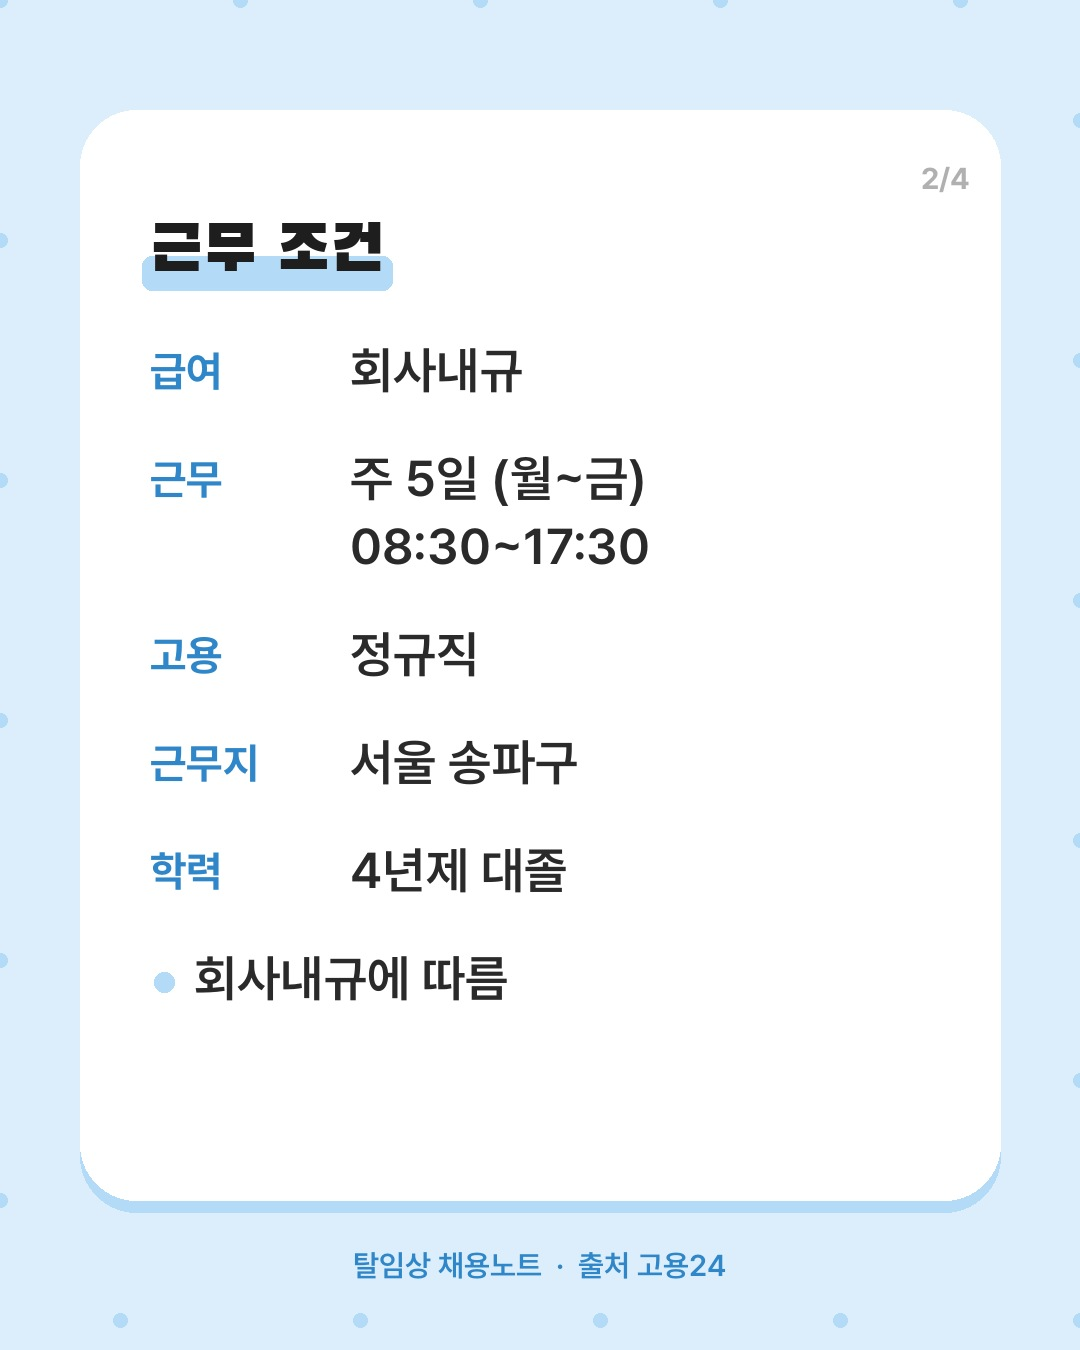
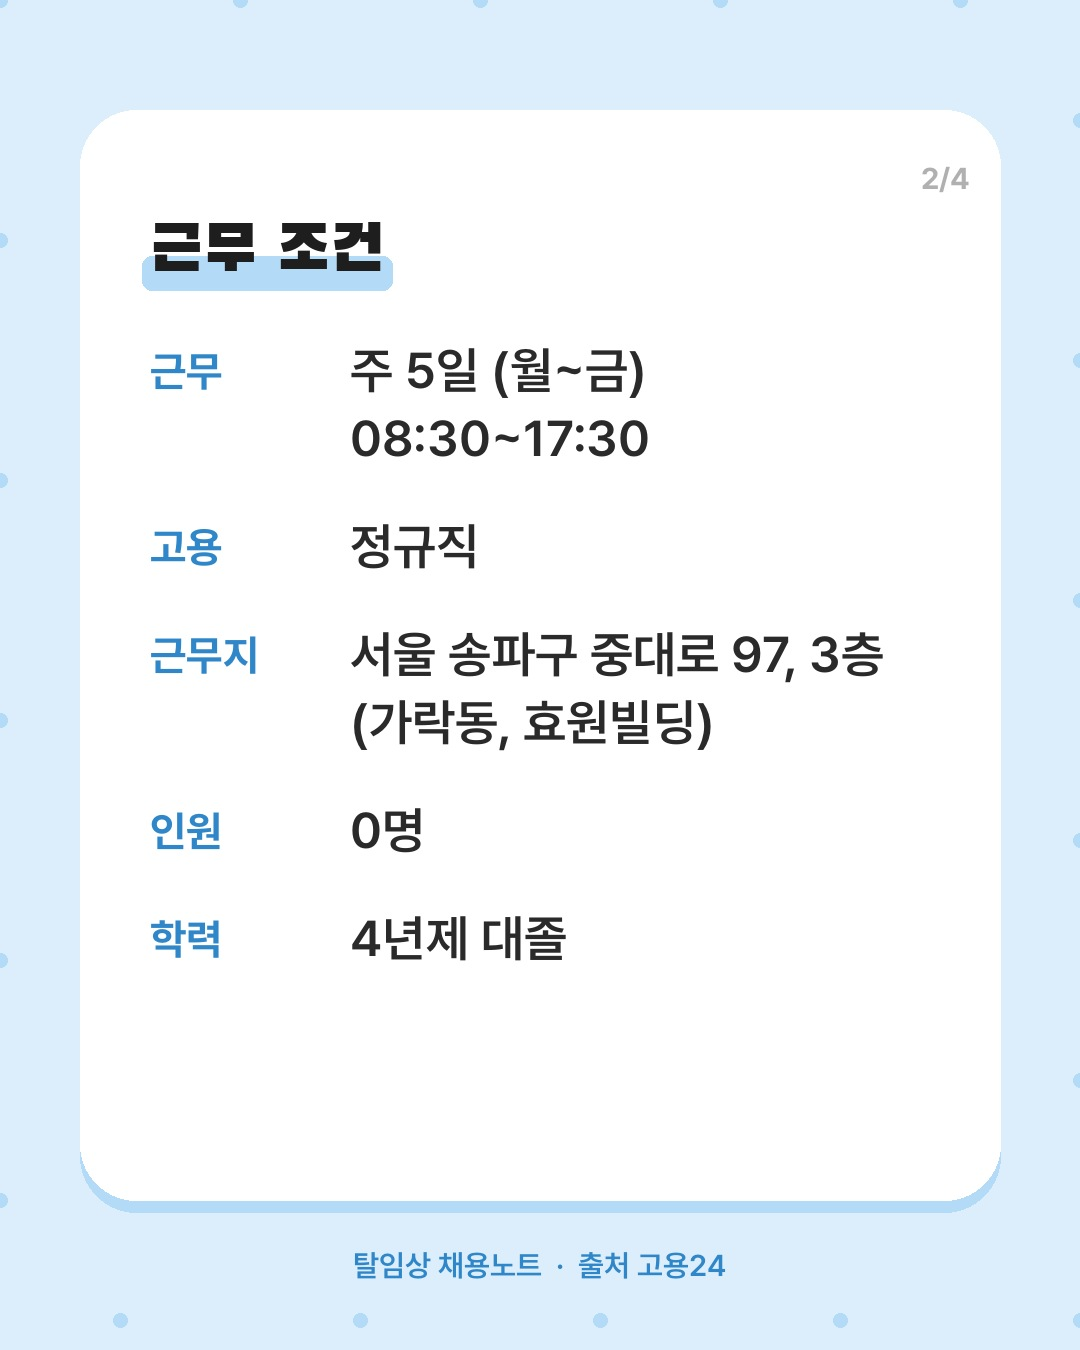
글7 디알리서치 복리후생 전체·0명 반영, 사람인 원문 미수집 공고는 블로그 선정 지양
Claude-Session: https://claude.ai/code/session_015ozFBvjxcWAyqLYfTbBGCZ

diff --git a/docs/2026-11-24/index.html b/docs/2026-11-24/index.html
@@ -224,17 +224,17 @@ a{color:var(--accent)}ul.days{padding-left:1.2em}
 <table border="1" cellpadding="8" style="border-collapse:collapse;width:100%">
 <tr><td style="width:30%;background:#f5f5f5"><b>기관</b></td><td>디알리서치</td></tr>
 <tr><td style="width:30%;background:#f5f5f5"><b>부서 · 직무</b></td><td>CRA</td></tr>
+<tr><td style="width:30%;background:#f5f5f5"><b>채용 인원</b></td><td>0명</td></tr>
 <tr><td style="width:30%;background:#f5f5f5"><b>고용 형태</b></td><td>정규직</td></tr>
-<tr><td style="width:30%;background:#f5f5f5"><b>근무지</b></td><td>서울 송파구</td></tr>
+<tr><td style="width:30%;background:#f5f5f5"><b>근무지</b></td><td>서울 송파구 중대로 97, 3층 (가락동, 효원빌딩)</td></tr>
 <tr><td style="width:30%;background:#f5f5f5"><b>학력</b></td><td>4년제 대졸</td></tr>
-<tr><td style="width:30%;background:#f5f5f5"><b>급여</b></td><td>회사내규</td></tr>
+<tr><td style="width:30%;background:#f5f5f5"><b>급여</b></td><td>공고문 확인 필요 (기관 내규)</td></tr>
 <tr><td style="width:30%;background:#f5f5f5"><b>근무 시간</b></td><td>주 5일 (월~금) 08:30~17:30</td></tr>
 <tr><td style="width:30%;background:#f5f5f5"><b>접수 기간</b></td><td>11월 22일 ~ 12월 22일 (D-28)</td></tr>
 </table><p>&nbsp;</p>
-<h2>💰 급여</h2><ul><li>회사내규에 따름</li></ul><p>&nbsp;</p>
-<h2>🎁 복리후생</h2><ul><li>4대보험</li><li>퇴직금</li><li>연차·반차·경조휴가</li><li>자격증취득지원·직무능력향상교육</li><li>탄력근무제</li><li>장기근속 포상</li><li>간식·음료 제공</li></ul><p>&nbsp;</p>
+<h2>🎁 복리후생</h2><ul><li>4대보험, 퇴직금, 연차수당, 직책수당, 장기근속수당</li><li>연차·반차·경조휴가·근로자의 날 휴무, 자유로운 연차사용</li><li>탄력근무제, 주 52시간제 준수</li><li>직무능력향상교육, 자격증취득지원</li><li>우수사원시상식·포상, 장기근속자 포상·선물, 명절선물/귀향비</li><li>워크샵, 수평적 조직문화, 회식·야근 강요 안함, 자유복장</li><li>휴게실·회의실·공기청정기, 간식·음료 제공, 사무용품 지급</li></ul><p>&nbsp;</p>
 <h2>✅ 지원 자격</h2><ul><li>경력 (최소 2년 이상)</li><li>대졸(4년)</li></ul><p>&nbsp;</p>
-<h2>🧭 전형 절차</h2><ol><li>사람인 온라인지원 (자기소개서)</li></ol><p>&nbsp;</p>
+<h2>🧭 전형 절차</h2><ol><li>사람인 온라인지원 (자기소개서·사진 포함)</li></ol><p>&nbsp;</p>
 <h2>💡 한줄 TIP</h2><p>CRA 2년 차 이상으로 이직을 준비하는 분께 추천. 08:30 출근의 주5일 정규직.</p><p>&nbsp;</p>
 <h2>🔗 지원하기</h2><ul>
 <li><a href="http://www.saramin.co.kr/zf_user/recruit/recruit-view?idx=55639350">기관 채용 홈페이지에서 바로 지원</a></li>
@@ -462,7 +462,6 @@ a{color:var(--accent)}ul.days{padding-left:1.2em}
 
 📍 근무지: 서울 송파구
 ⏰ 마감: 12/22까지 (D-28)
-💰 급여: 회사내규
 🕘 근무: 주 5일 (월~금) 08:30~17:30
 ✅ 자격: CRA 경력 2년 이상 / 4년제 대졸
 

diff --git a/CLAUDE.md b/CLAUDE.md
@@ -52,6 +52,7 @@ GitHub Actions가 매일 05:17(KST, 종종 늦어짐)에 공고를 수집해 `da
      세부 내용은 대부분 첨부파일(hwpx/pdf)에 있어 수집되지 않는다 → `extra.site_text`에 있는 정보만 쓰고 급여 등은 없으면 `null`.
    - `source: "work24"` 공고는 고용24(구 워크넷) 민간 공고(보건관리자·산업간호사·연구간호사·보험심사 등). category는 직무대로(보건관리자·산업간호사는 `"기업"`, CRC·연구간호사는 `"연구"`).
      **'안전·보건관리자'처럼 안전관리자와 묶인 자리는 간호사 지원 가능 여부를 본문(`extra.site_text`·`list_text`)으로 확인** — 간호사 면허가 자격에 없거나 산업안전기사 등만 요구하면 `is_target: false`. (자격이 '간호사 또는 산업위생관리기사'인 보건관리자는 true, 산업위생관리기사는 우대사항에 적기)
+     **사람인 원문인데 `extra.origin_text`가 비어 있으면**(GitHub에서 사람인 접속 차단) 직무내용·우대사항이 빠진다 → 블로그로 고르지 말고 다른 공고를 우선한다. 꼭 골라야 하면 보고에 "사람인 원문 미수집 — 캡처 필요"라고 적는다.
      사람인·잡코리아 등에서 온 공고는 `url`이 원문 주소이고, `extra.origin_text`(원문 본문)가 있으면 **가장 먼저** 참고한다 (자격·근무시간·급여·복리후생). 없으면 `extra.site_text`(고용24 상세)·`list_text` 순.
    - 고용24·인크루트의 **CRA·CRO·제약·의료기기 임상 공고**: 자격에 간호(학)·보건의료·의약 계열 전공이나 간호사 면허(필수 또는 우대)가 있거나 CRA·CRC 경력 공고면 `is_target: true`, category `"연구"`, job_role은 CRA·CRC·임상연구원 등. 의학·약학·통계 전공만 받거나 BD·영업·통계·MW·PV 전용이면 false. 여러 직무를 한꺼번에 뽑는 헤드헌터 공고는 CRA 행만 보고 판단한다.
    - `source: "incruit"` 공고는 인크루트(민간 공고). `extra.origin_text`(상세 본문)를 **가장 먼저** 참고하고, `site_text`(고용형태·급여조건·마감)와 `list_text`도 본다. 고용24에도 같은 공고가 있으면 내용이 더 많은 쪽만 남긴다.
